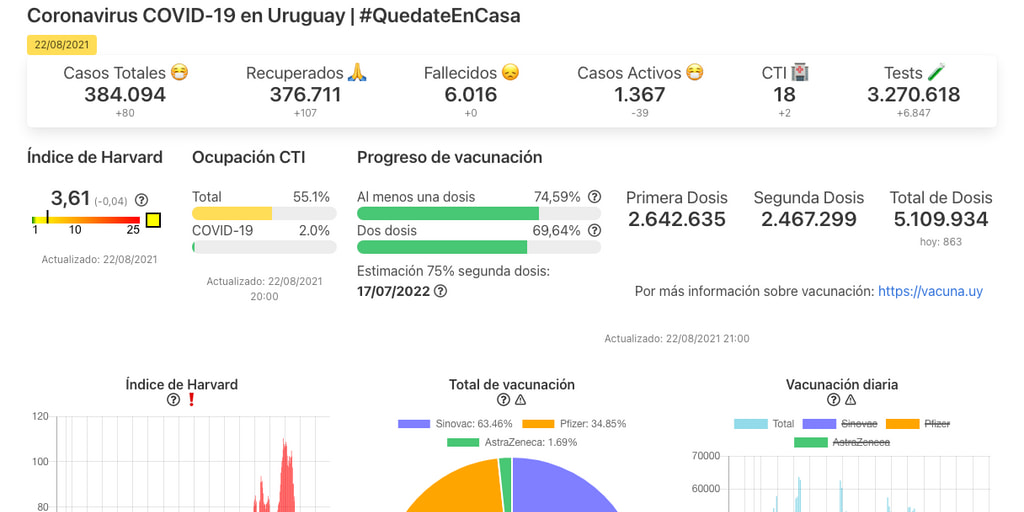
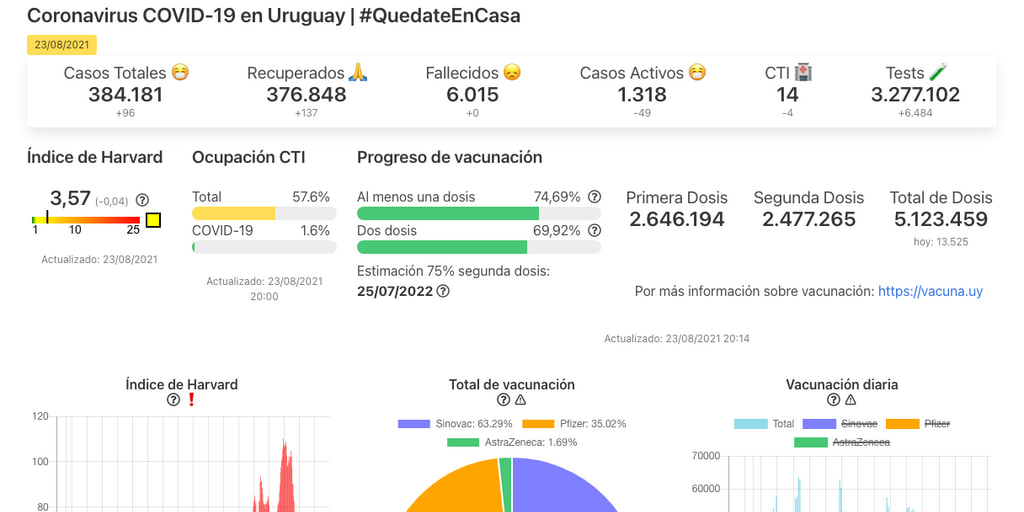
updated uruguay

diff --git a/test/test-data.js b/test/test-data.js
@@ -67,11 +67,13 @@ describe('Test data', function () {
                 if (today.date != "2020-06-21") { // Allow SINAE report error
                     assert.isAtLeast(recovered, prevRecovered, "Recovered: " + today.date);
                 }
-                assert.isAtLeast(deaths, prevDeaths, "Deaths: " + today.date);
-                if (today.date != "2020-08-18") { // Allow SINAE report error
+                if(today.date != "2021-08-23") {
+                    assert.isAtLeast(deaths, prevDeaths, "Deaths: " + today.date);
+                }
+                if (today.date != "2020-08-18" && today.date != "2021-08-23") { // Allow SINAE report error
                     assert.isAtLeast(hcCases, prevHCCases, "HC Cases: " + today.date);
                 }
-                if (today.date != "2020-05-20") { // Allow SINAE report error
+                if (today.date != "2020-05-20" && today.date != "2021-08-23") { // Allow SINAE report error
                     assert.isAtLeast(hcRecovered, prevHCRecovered, "HC Recovered: " + today.date);
                 }
                 assert.isAtLeast(hcDeaths, prevHCDeaths, "HC Deaths: " + today.date);
@@ -174,127 +176,123 @@ describe('Test data', function () {
                 const dep = deps[d];
                 for (let j = 0; j < dep.length; ++j) {
                     totalDeaths++;
-
-                    if (deathHistory.length == 0) {
-                        deathHistory.push({ date: date, deaths: totalDeaths });
-                    }
-                    else {
-                        var prev = deathHistory[deathHistory.length - 1];
-                        if (prev.date.getTime() == date.getTime()) {
-                            prev.deaths = totalDeaths;
-                        }
-                        else {
-                            // an extra death was reported on 2021-02-22, but it wasn't informed which one
-                            if (date.getTime() == new Date("2021-02-22" + DATE_DEFAULT_TIME).getTime()) {
-                                totalDeaths--;
-                            }
-                            // a death wasn't reported on 2021-03-25
-                            if (date.getTime() == new Date("2021-03-25" + DATE_DEFAULT_TIME).getTime()) {
-                                totalDeaths++;
-                            }
-                            // 36 deaths weren't reported on 2021-04-29
-                            if (date.getTime() == new Date("2021-04-09" + DATE_DEFAULT_TIME).getTime()) {
-                                totalDeaths += 36;
-                            }
-                            // an extra death was reported on 2021-04-10, but it wasn't informed which one
-                            if (date.getTime() == new Date("2021-04-10" + DATE_DEFAULT_TIME).getTime()) {
-                                totalDeaths--;
-                            }
-                            // an extra death was reported on 2021-04-13, but it wasn't informed which one
-                            if (date.getTime() == new Date("2021-04-13" + DATE_DEFAULT_TIME).getTime()) {
-                                totalDeaths--;
-                            }
-
-                            // 2 deaths weren't reported on 2021-04-18
-                            if (date.getTime() == new Date("2021-04-18" + DATE_DEFAULT_TIME).getTime()) {
-                                totalDeaths += 2;
-                            }
-
-                            // an extra death was reported on 2021-04-26, but it wasn't informed which one
-                            if (date.getTime() == new Date("2021-04-26" + DATE_DEFAULT_TIME).getTime()) {
-                                totalDeaths--;
-                            }
-
-                            // an extra death was reported on 2021-04-27, but it wasn't informed which one
-                            if (date.getTime() == new Date("2021-04-27" + DATE_DEFAULT_TIME).getTime()) {
-                                totalDeaths--;
-                            }
-
-                            // an extra death was reported on 2021-05-02, but it wasn't informed which one
-                            if (date.getTime() == new Date("2021-05-02" + DATE_DEFAULT_TIME).getTime()) {
-                                totalDeaths--;
-                            }
-
-                            // an extra death was reported on 2021-05-08, but it wasn't informed which one
-                            if (date.getTime() == new Date("2021-05-08" + DATE_DEFAULT_TIME).getTime()) {
-                                totalDeaths--;
-                            }
-
-                            // an extra death was reported on 2021-05-23, but it wasn't informed which one
-                            if (date.getTime() == new Date("2021-05-23" + DATE_DEFAULT_TIME).getTime()) {
-                                totalDeaths--;
-                            }
-
-                            // two deaths were removed on 2021-06-01, but it wasn't informed which ones
-                            if (date.getTime() == new Date("2021-06-01" + DATE_DEFAULT_TIME).getTime()) {
-                                totalDeaths -= 2;
-                            }
-
-                            // two deaths were removed on 2021-06-01, but it wasn't informed which ones
-                            if (date.getTime() == new Date("2021-06-03" + DATE_DEFAULT_TIME).getTime()) {
-                                totalDeaths -= 2;
-                            }
-
-                            if (date.getTime() == new Date("2021-06-10" + DATE_DEFAULT_TIME).getTime()) {
-                                totalDeaths -= 1;
-                            }
-
-                            if (date.getTime() == new Date("2021-06-11" + DATE_DEFAULT_TIME).getTime()) {
-                                totalDeaths -= 1;
-                            }
-
-                            if (date.getTime() == new Date("2021-06-14" + DATE_DEFAULT_TIME).getTime()) {
-                                totalDeaths -= 2;
-                            }
-
-                            if (date.getTime() == new Date("2021-06-23" + DATE_DEFAULT_TIME).getTime()) {
-                                totalDeaths -= 1;
-                            }
-
-                            if (date.getTime() == new Date("2021-06-30" + DATE_DEFAULT_TIME).getTime()) {
-                                totalDeaths -= 1;
-                            }
-
-                            if (date.getTime() == new Date("2021-07-01" + DATE_DEFAULT_TIME).getTime()) {
-                                totalDeaths -= 1;
-                            }
-
-                            if (date.getTime() == new Date("2021-07-06" + DATE_DEFAULT_TIME).getTime()) {
-                                totalDeaths -= 1;
-                            }
-
-                            if (date.getTime() == new Date("2021-07-07" + DATE_DEFAULT_TIME).getTime()) {
-                                totalDeaths -= 1;
-                            }
-
-                            if (date.getTime() == new Date("2021-07-19" + DATE_DEFAULT_TIME).getTime()) {
-                                totalDeaths -= 1;
-                            }
-
-                            if (date.getTime() == new Date("2021-07-30" + DATE_DEFAULT_TIME).getTime()) {
-                                totalDeaths -= 1;
-                            }
-
-                            if (date.getTime() == new Date("2021-07-31" + DATE_DEFAULT_TIME).getTime()) {
-                                totalDeaths -= 1;
-                            }
-
-                            deathHistory.push({ date: date, deaths: totalDeaths });
-                        }
-                    }
                 }
             }
+
+            // an extra death was reported on 2021-02-22, but it wasn't informed which one
+            if (date.getTime() == new Date("2021-02-22" + DATE_DEFAULT_TIME).getTime()) {
+                totalDeaths--;
+            }
+            // a death wasn't reported on 2021-03-25
+            if (date.getTime() == new Date("2021-03-25" + DATE_DEFAULT_TIME).getTime()) {
+                totalDeaths++;
+            }
+            // 36 deaths weren't reported on 2021-04-29
+            if (date.getTime() == new Date("2021-04-09" + DATE_DEFAULT_TIME).getTime()) {
+                totalDeaths += 36;
+            }
+            // an extra death was reported on 2021-04-10, but it wasn't informed which one
+            if (date.getTime() == new Date("2021-04-10" + DATE_DEFAULT_TIME).getTime()) {
+                totalDeaths--;
+            }
+            // an extra death was reported on 2021-04-13, but it wasn't informed which one
+            if (date.getTime() == new Date("2021-04-13" + DATE_DEFAULT_TIME).getTime()) {
+                totalDeaths--;
+            }
+
+            // 2 deaths weren't reported on 2021-04-18
+            if (date.getTime() == new Date("2021-04-18" + DATE_DEFAULT_TIME).getTime()) {
+                totalDeaths += 2;
+            }
+
+            // an extra death was reported on 2021-04-26, but it wasn't informed which one
+            if (date.getTime() == new Date("2021-04-26" + DATE_DEFAULT_TIME).getTime()) {
+                totalDeaths--;
+            }
+
+            // an extra death was reported on 2021-04-27, but it wasn't informed which one
+            if (date.getTime() == new Date("2021-04-27" + DATE_DEFAULT_TIME).getTime()) {
+                totalDeaths--;
+            }
+
+            // an extra death was reported on 2021-05-02, but it wasn't informed which one
+            if (date.getTime() == new Date("2021-05-02" + DATE_DEFAULT_TIME).getTime()) {
+                totalDeaths--;
+            }
+
+            // an extra death was reported on 2021-05-08, but it wasn't informed which one
+            if (date.getTime() == new Date("2021-05-08" + DATE_DEFAULT_TIME).getTime()) {
+                totalDeaths--;
+            }
+
+            // an extra death was reported on 2021-05-23, but it wasn't informed which one
+            if (date.getTime() == new Date("2021-05-23" + DATE_DEFAULT_TIME).getTime()) {
+                totalDeaths--;
+            }
+
+            // two deaths were removed on 2021-06-01, but it wasn't informed which ones
+            if (date.getTime() == new Date("2021-06-01" + DATE_DEFAULT_TIME).getTime()) {
+                totalDeaths -= 2;
+            }
+
+            // two deaths were removed on 2021-06-01, but it wasn't informed which ones
+            if (date.getTime() == new Date("2021-06-03" + DATE_DEFAULT_TIME).getTime()) {
+                totalDeaths -= 2;
+            }
+
+            if (date.getTime() == new Date("2021-06-10" + DATE_DEFAULT_TIME).getTime()) {
+                totalDeaths -= 1;
+            }
+
+            if (date.getTime() == new Date("2021-06-11" + DATE_DEFAULT_TIME).getTime()) {
+                totalDeaths -= 1;
+            }
+
+            if (date.getTime() == new Date("2021-06-14" + DATE_DEFAULT_TIME).getTime()) {
+                totalDeaths -= 2;
+            }
+
+            if (date.getTime() == new Date("2021-06-23" + DATE_DEFAULT_TIME).getTime()) {
+                totalDeaths -= 1;
+            }
+
+            if (date.getTime() == new Date("2021-06-30" + DATE_DEFAULT_TIME).getTime()) {
+                totalDeaths -= 1;
+            }
+
+            if (date.getTime() == new Date("2021-07-01" + DATE_DEFAULT_TIME).getTime()) {
+                totalDeaths -= 1;
+            }
+
+            if (date.getTime() == new Date("2021-07-06" + DATE_DEFAULT_TIME).getTime()) {
+                totalDeaths -= 1;
+            }
+
+            if (date.getTime() == new Date("2021-07-07" + DATE_DEFAULT_TIME).getTime()) {
+                totalDeaths -= 1;
+            }
+
+            if (date.getTime() == new Date("2021-07-19" + DATE_DEFAULT_TIME).getTime()) {
+                totalDeaths -= 1;
+            }
+
+            if (date.getTime() == new Date("2021-07-30" + DATE_DEFAULT_TIME).getTime()) {
+                totalDeaths -= 1;
+            }
+
+            if (date.getTime() == new Date("2021-07-31" + DATE_DEFAULT_TIME).getTime()) {
+                totalDeaths -= 1;
+            }
+
+            deathHistory.push({ date: date, deaths: totalDeaths });
+
+            // a death was removed on 2021-08-23.
+            if (date.getTime() == new Date("2021-08-21" + DATE_DEFAULT_TIME).getTime()) {
+                totalDeaths -= 1;
+                deathHistory.push({ date: new Date("2021-08-23" + DATE_DEFAULT_TIME), deaths: totalDeaths });
+            }
         }
+
         let j = 0;
         let deaths = 0;
         for (let i = 0; i < uruguay.data.length; ++i) {
